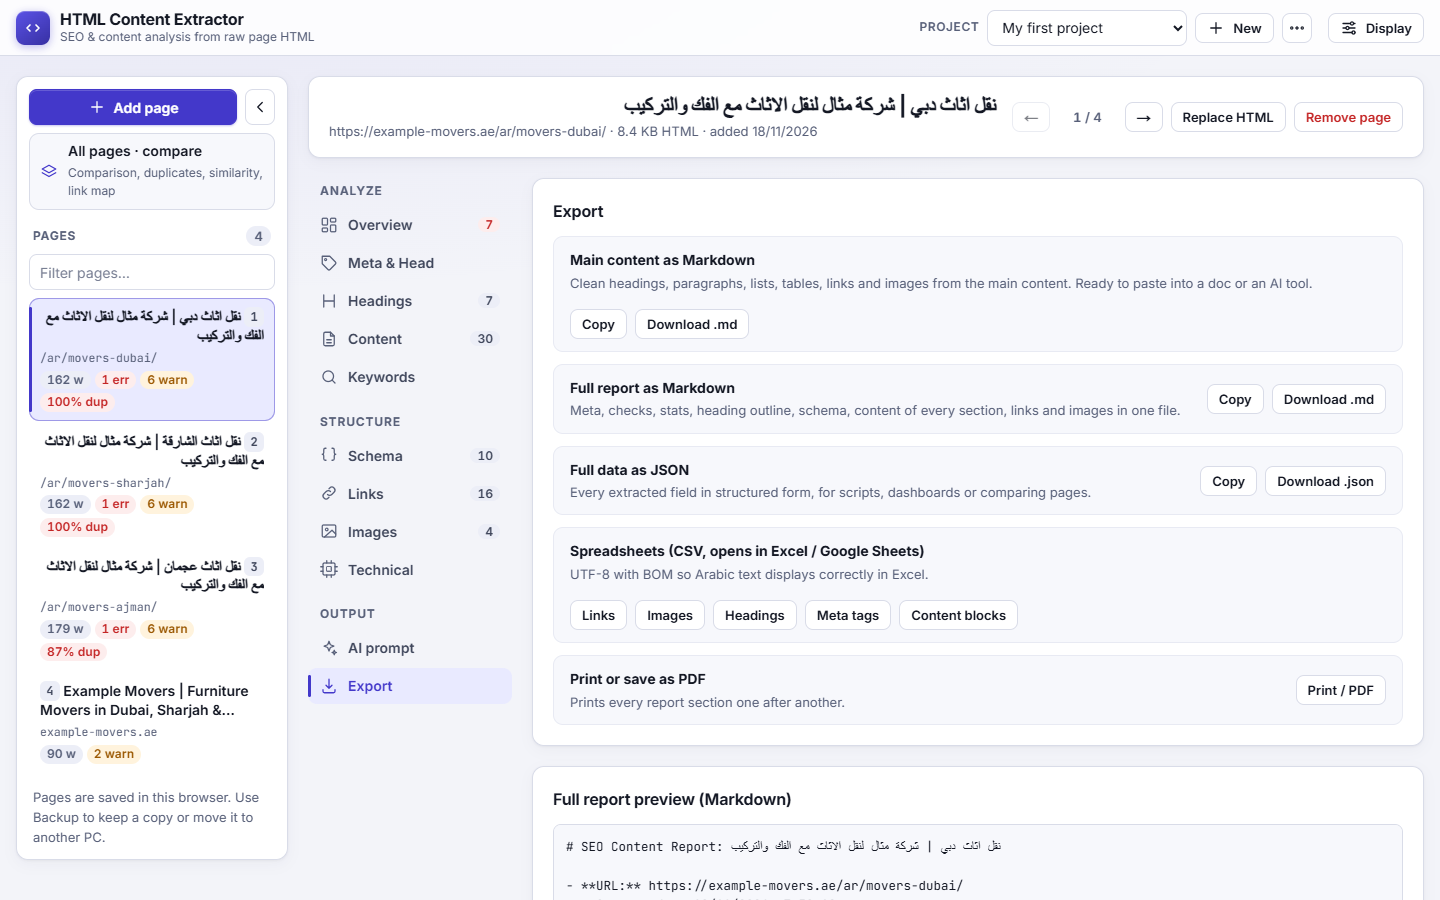
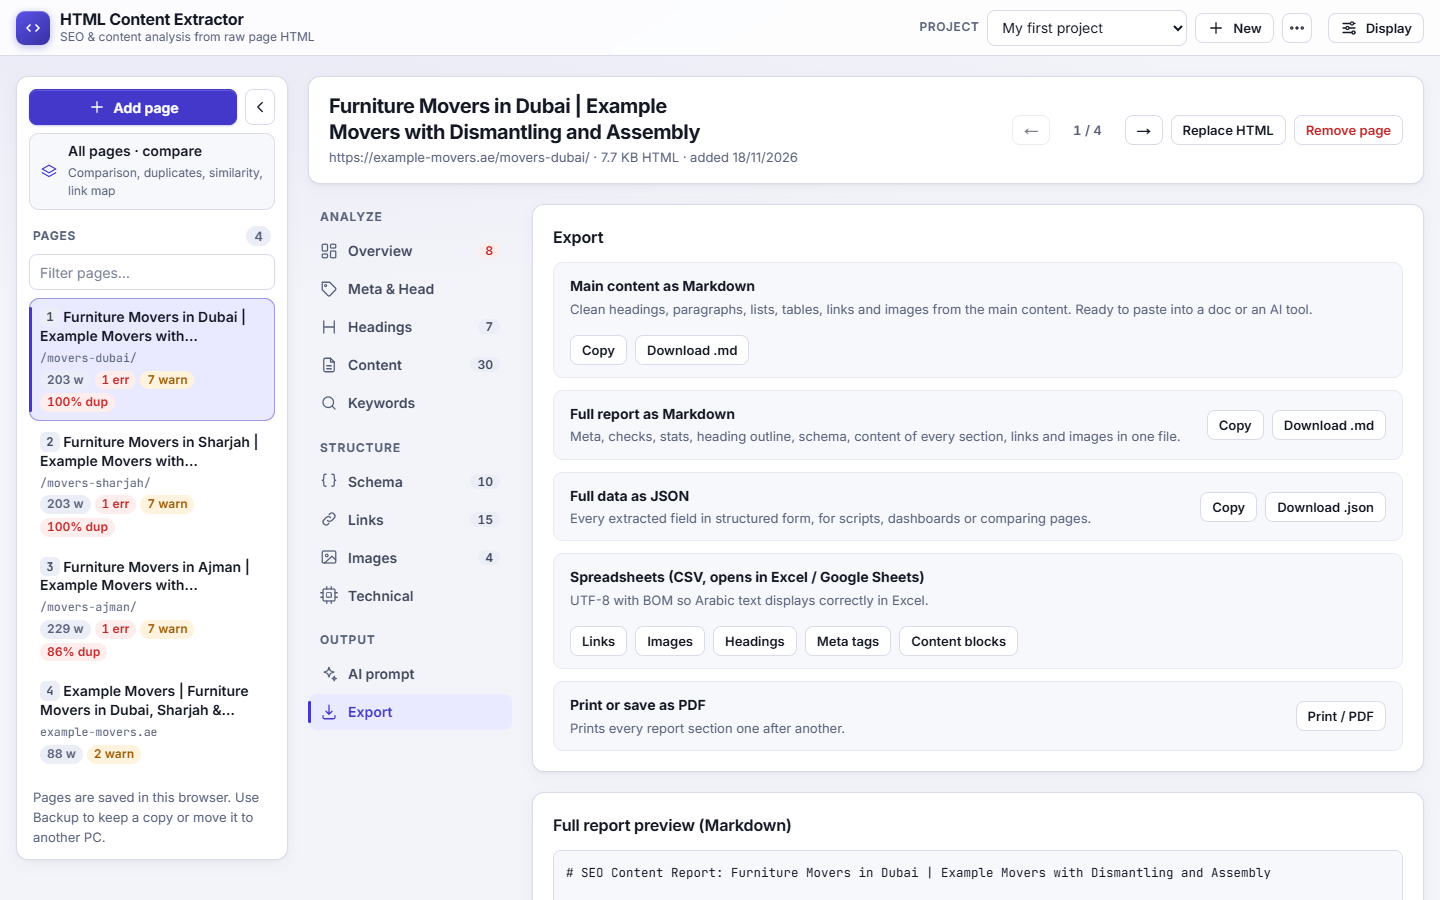
README: English-only screenshots
Screenshots now use English fictional pages (tests/readme-samples.mjs)
instead of the Arabic built-in samples. App and sample.js unchanged.

diff --git a/README.md b/README.md
@@ -92,7 +92,7 @@ You can also drop or open a saved `.html` file. Entering the page URL is optiona
 
 ## Screenshots
 
-All screenshots use the built-in fictional sample pages.
+All screenshots show fictional English-language pages for an imaginary moving company. No real site or data is shown.
 
 <table>
   <tr>
@@ -211,6 +211,7 @@ node golden.mjs --root .. --label current
 node compare.mjs golden/baseline out/current
 
 # Regenerate the README screenshots (writes to docs/screenshots/)
+# The pages it uses are defined in tests/readme-samples.mjs
 node readme-shots.mjs
 ```
 
